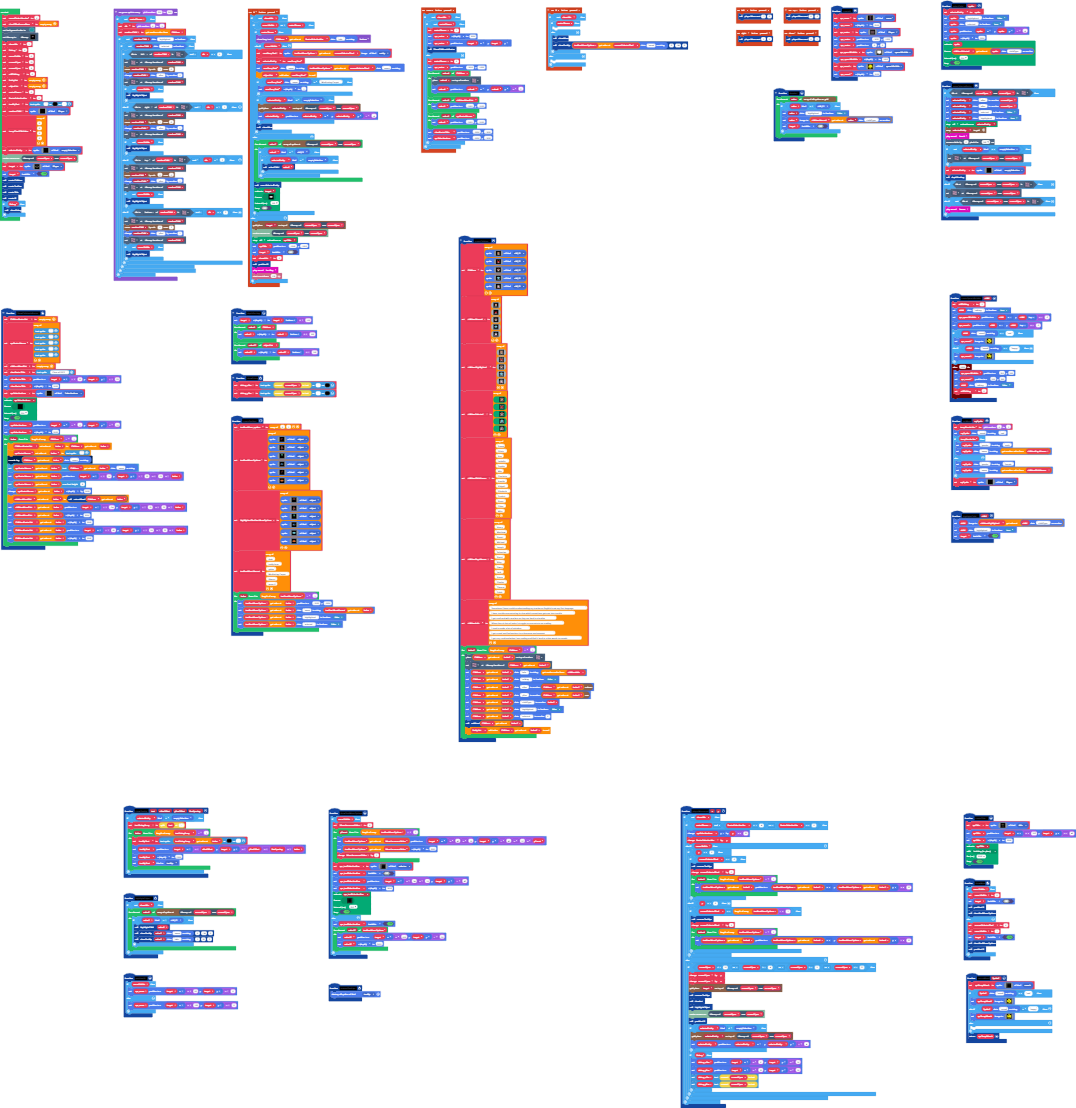
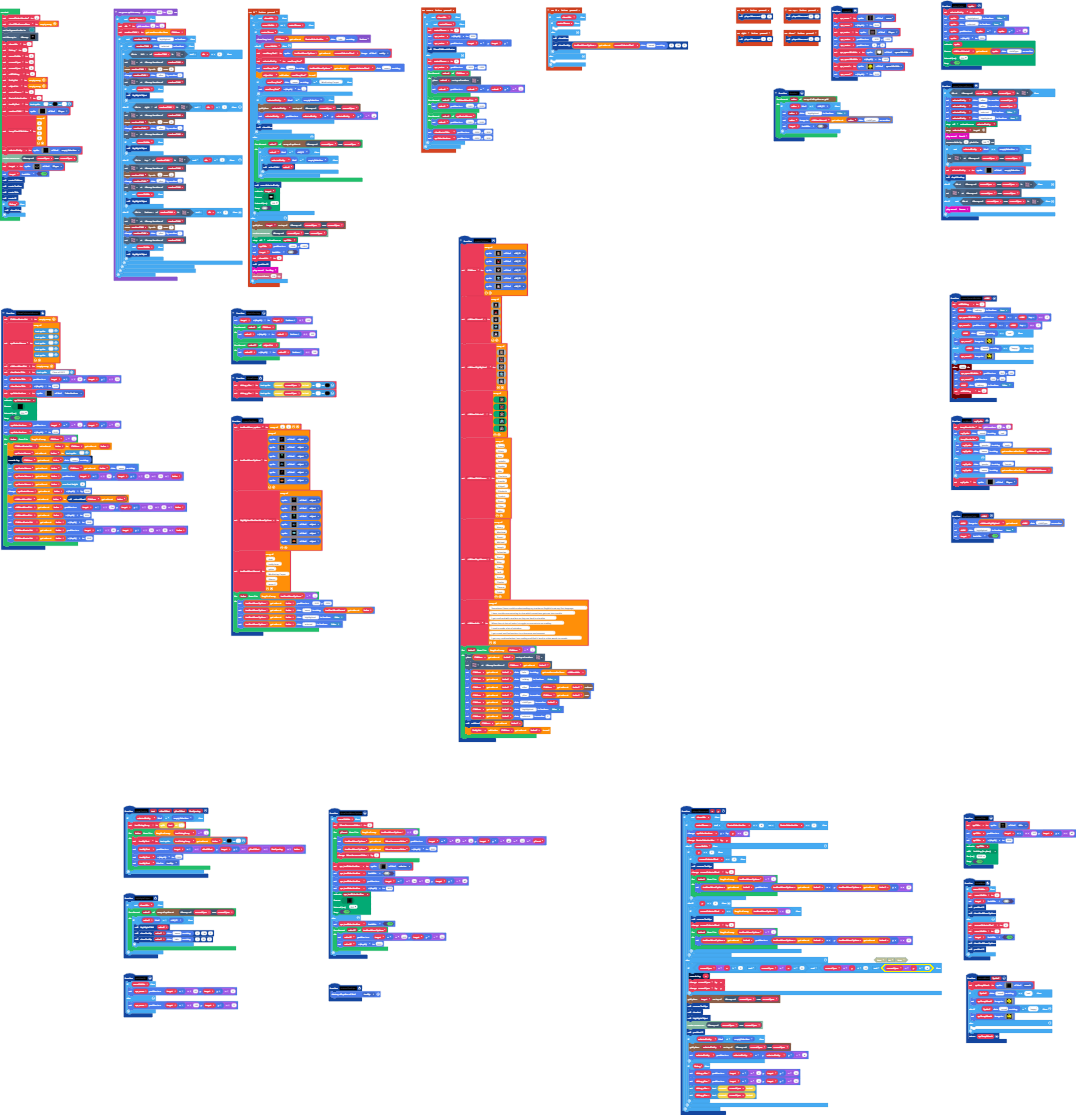
limited movement added

diff --git a/main.ts b/main.ts
@@ -498,25 +498,26 @@ function playerMovement (x: number, y: number) {
                 }
             }
         } else {
-            if (currentYpos <= 10 || currentYpos >= 4 || (currentXpos >= 9 || currentXpos <= 21)) {
-                currentYpos += y
+            if (currentXpos + x >= 9 && currentXpos + x <= 21 && (currentYpos + y <= 10 && currentYpos + y >= 4)) {
+                console.log(x)
                 currentXpos += x
-                grid.place(target, tiles.getTileLocation(currentXpos, currentYpos))
-                removeTooltips()
-                deselect()
-                highlightObject()
-                tiles.centerCameraOnTile(tiles.getTileLocation(currentXpos, currentYpos))
-                positionUI()
-                if (selectedEntity.kind() != SpriteKind.emptySelection) {
-                    grid.place(selectedEntity, tiles.getTileLocation(currentXpos, currentYpos))
-                    selectedEntity.setPosition(selectedEntity.x, selectedEntity.y - 4)
-                }
-                if (Debug) {
-                    debug_xPos.setPosition(target.x + 0, target.y + 10)
-                    debug_yPos.setPosition(target.x + 10, target.y + 10)
-                    debug_xPos.setText(convertToText(currentXpos))
-                    debug_yPos.setText(convertToText(currentYpos))
-                }
+                currentYpos += y
+            }
+            grid.place(target, tiles.getTileLocation(currentXpos, currentYpos))
+            removeTooltips()
+            deselect()
+            highlightObject()
+            tiles.centerCameraOnTile(tiles.getTileLocation(currentXpos, currentYpos))
+            positionUI()
+            if (selectedEntity.kind() != SpriteKind.emptySelection) {
+                grid.place(selectedEntity, tiles.getTileLocation(currentXpos, currentYpos))
+                selectedEntity.setPosition(selectedEntity.x, selectedEntity.y - 4)
+            }
+            if (Debug) {
+                debug_xPos.setPosition(target.x + 0, target.y + 10)
+                debug_yPos.setPosition(target.x + 10, target.y + 10)
+                debug_xPos.setText(convertToText(currentXpos))
+                debug_yPos.setText(convertToText(currentYpos))
             }
         }
     }
@@ -635,7 +636,7 @@ let checkTilesArounditem: number[] = []
 scene.setBackgroundColor(6)
 tiles.setCurrentTilemap(tilemap`level1`)
 showtitle = 1
-Debug = 0
+Debug = 1
 menuVisible = 0
 currentXpos = 15
 currentYpos = 6
